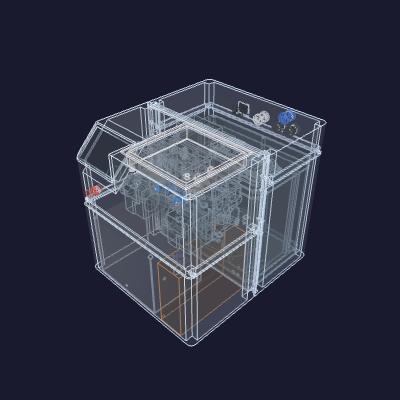
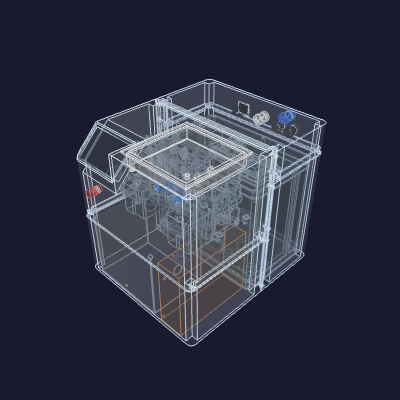
enclosure: stand both seams clear of the front pack
A valve tray in a front quadrant had seam furniture inside its own
footprint in both directions, and had to be shaped around it.

The Y seam sat at the box midpoint. Its front column's aft Z station
reached 2*socket_r ahead of the mouth's margin, so a full-height post
stood at y=161.7 on each side wall — inside the depth the trays use
(they reach y=182.0). It now sits one stance behind the cold core's
front face, where the front pack ends, putting that post's front face
at y=184.0 and the whole seam aft of every tray.

The front column's Z seam sat at z=172 with its rim at 185.1 — inside
the manifold stack, whose floor is at 164.8, so the trays straddled it
and its lip and four pods passed through their height. It drops to a
rim of 154.0, beneath the stack, so each tray lands wholly in the
front-top piece. What it drops past is the compressor and the tipped
condenser, which stand against the front wall over the seam's whole
height: the front column's lip gives up its front-wall segment for
them, as the Y lip gives up its floor segment for the cold core. Both
machines are inset one corner-rib chain off their side walls, so the
two side segments and all four pods keep full section, and neither
machine moves.

The rear-panel port bump moves ahead of the seam calculation. The Y
lip's ceiling segment runs under the top wall, so it is bounded by what
stands under the FINAL one — probed against the provisional ceiling it
read the power tray and capped the seam 6.5 mm short.
[…]

Changed region(s): [[0.21, 0.24, 0.72, 0.75]]

diff --git a/hardware/printed-parts/enclosure/enclosure/enclosure.py b/hardware/printed-parts/enclosure/enclosure/enclosure.py
@@ -8,8 +8,10 @@ interior clearance, then walled out. Features:
 
   * A flat 45° display-mounting facet (a solid surface) chamfered into the
     top-front-left corner, flush to the −X edge.
-  * A front↔back split (a Y-plane seam pushed as far back as the cold core
-    allows): the front pieces' rear walls telescope (a full-wall lip,
+  * A front↔back split (a Y-plane seam standing one stance BEHIND the cold
+    core's front face, so its machinery is aft of the whole front pack and a
+    front-quadrant tray never has to be notched around it): the front
+    pieces' rear walls telescope (a full-wall lip,
     nothing shaved) into the back pieces, and four interlocking screw
     bosses cross the seam — one per ±X side wall per level, the bottom pair
     tucked just under the front Z seam (so it pins the two bottom pieces),
@@ -25,9 +27,11 @@ interior clearance, then walled out. Features:
     different height each side of the Y seam (the seams stagger like a
     brick bond; the front pair joins, the back pair joins, then the front
     assembly telescopes into the back). The BOTTOM pieces carry the lip — a
-    3-sided band (their outer ±Y wall + both side walls, stopping short of
-    the Y-seam overlap) telescoping +Z into the top pieces — with the
-    socket pods; the TOP pieces carry the D-pins, their tabs rising to the
+    band stopping short of the Y-seam overlap, telescoping +Z into the top
+    pieces: 3-sided at the back (rear wall + both side walls), 2-sided at
+    the front, where the compressor and condenser stand against the front
+    wall over the seam's whole height and that segment is given up for them
+    — with the socket pods; the TOP pieces carry the D-pins, their tabs rising to the
     lip rim where posts of the pod's own section carry them to the
     ceiling. Four X-axis screws cross each
     seam (one per side wall per Y column: front pins at the front-wall
@@ -188,16 +192,19 @@ lip_len = plug_dia / 2.0 + socket_r              # = (plug+bore)/2 + wall = 13.1
 #     bulkhead field begins just above the lip rim (_contents
 #     UMBILICAL_Z_FLOOR is derived from it) — the seam sits in the one band
 #     between foam and ports.
-#   * Front: in the band between the floor stratum and the manifold stack.
-#     The compressor and the tipped condenser are each inset one corner-rib
-#     chain off their side wall, so the floor's whole height stands clear at
-#     both walls; above them the stack runs a few millimetres inboard of each
-#     wall — the source tray's east bank, both trays' west outlet elbows, and
-#     the pump-inlet tees hanging between them all clear the seam furniture —
-#     from its floor at z ~165 up. The seam's wall-hugging lip + boss pods
-#     occupy the gap beneath that floor.
+#   * Front: BELOW the manifold stack, not inside it. The stack's floor is at
+#     z ~165, so a seam up in that band leaves the trays straddling it — every
+#     tray then has to be shaped around a lip and four pods passing through its
+#     own height. Dropped so the rim lands one stack-floor clearance under it,
+#     the whole seam is beneath the trays and each of them sits wholly in the
+#     top piece. What it drops PAST is the compressor and the tipped condenser,
+#     which stand against the front wall over this entire height — so the front
+#     column's lip gives up its front-wall segment for them (`_z_lip`), exactly
+#     as the Y lip gives up its floor segment for the cold core. Both machines
+#     are inset one corner-rib chain off their side walls, so the two side
+#     segments and all four pods still run at full section.
 # Every printed piece's bed face fits the H2C envelope with these cuts.
-z_joint_front = 172.0
+z_joint_front = 140.9        # rim at 154.0, under the stack floor at 164.8
 # Clear of the cold core's foam cap by the rear station's reach: that station's
 # socket collar hangs socket_r below the pin axis, i.e. to z_joint_back − 3.2, so
 # the seam sits high enough that the collar lands ON the band above the foam
@@ -450,31 +457,40 @@ def _dims():
     # (bore axis at lip_len + wall + bore radius past y_joint, pod reaching
     # socket_r further) and must stop ahead of the foam. (No Z terms: the
     # provisional tuples below are final in X and Y.)
-    inner = (ix0, ix1, iy0, iy1, iz0, iz1)
-    outer = (ox0, ox1, oy0, oy1, iz0 - wall, iz1 + wall)
-    facet_back_y = _facet_back_y(outer)
-    # The seam sits at the box's middle, for four near-quarter pieces, unless
-    # something stands where one of its two parts needs to be: the mouth, plugs,
-    # pods and posts in the ±X boss-chain bands, and the lip's ceiling segment
-    # in the band under the top wall. The cold core caps neither — the bands run
-    # clear alongside it, and the lip carries no floor segment to sweep it — so
-    # the seam passes BEHIND the core's front face rather than stopping at it.
-    chain_clear, ceiling_clear = _seam_bands_clear(placed, inner)
-    chain = lip_len + wall + socket_bore_dia / 2.0 + socket_r
-    y_chain = chain_clear - 2.0 - chain
-    y_ceiling = ceiling_clear - 2.0 - lip_len
-    y_joint = max(facet_back_y + 2.0,
-                  min((iy0 + iy1) / 2.0, y_chain, y_ceiling))
     # The rear-panel port field is content too: every clamping nut/flange seats
     # on the outer wall face, so the wall must reach past the field's topmost
     # hardware edge (its bottom edge rides the lip band — _contents
-    # UMBILICAL_Z_FLOOR); the margin mirrors that floor's 2 mm stance.
+    # UMBILICAL_Z_FLOOR); the margin mirrors that floor's 2 mm stance. Settled
+    # BEFORE the seam, because the Y lip's ceiling segment runs under the top
+    # wall and so is bounded by whatever stands under the FINAL one.
     ports = _contents.back_wall_ports()
     port_top = max((h[2] + _contents.port_footprint(h)[1] / 2.0 for h in ports),
                    default=iz0)
     iz1 = max(iz1, port_top + 2.0)
     inner = (ix0, ix1, iy0, iy1, iz0, iz1)
     outer = (ox0, ox1, oy0, oy1, iz0 - wall, iz1 + wall)
+    facet_back_y = _facet_back_y(outer)
+    # The seam sits at the box's middle, for four near-quarter pieces, OR behind
+    # the front pack — whichever is further back. The pack term is what makes the
+    # front quadrants usable: the frontmost seam furniture is that column's aft
+    # Z station, whose pod reaches 2*socket_r ahead of the mouth's margin, and a
+    # tray in either front quadrant has to be notched around it wherever it lands
+    # inside the pack. Held one stance behind the cold core's front face — where
+    # the front pack ends — the whole seam stands aft of every tray, and a tray
+    # may run the box's full width and its full depth without seeing a seam.
+    #
+    # Either way it is capped by what stands where its two parts go: the mouth,
+    # plugs, pods and posts in the ±X boss-chain bands, and the lip's ceiling
+    # segment in the band under the top wall. The cold core caps neither — the
+    # bands run clear alongside it, and the lip carries no floor segment to sweep
+    # it — so the seam passes BEHIND the core's front face rather than stopping.
+    chain_clear, ceiling_clear = _seam_bands_clear(placed, inner)
+    chain = lip_len + wall + socket_bore_dia / 2.0 + socket_r
+    y_chain = chain_clear - 2.0 - chain
+    y_ceiling = ceiling_clear - 2.0 - lip_len
+    y_pack = cold.ymin + 2.0 + wall + z_lip_y_margin + 2.0 * socket_r
+    y_joint = max(facet_back_y + 2.0,
+                  min(max((iy0 + iy1) / 2.0, y_pack), y_chain, y_ceiling))
     # The Y-seam corner, probed at each depth something stands there: the front
     # half's column at the socket's full section (which also fixes where a level
     # may sit, since a level needs a socket body), and the back half's column —
@@ -1017,12 +1033,22 @@ def _z_stations(inner, y_joint):
     return out
 
 
-def _z_lip(inner, y_joint, zj):
+def _z_lip(inner, y_joint, zj, y_side=None):
     """The bottom pieces' seam lip: a full-wall band whose outer faces are
     flush with the body's inner walls, running one wall down into the body
     (the fusion shoulder) and up over the overlap to the rim. The segment
     crossing the Y-seam overlap is dropped, so each piece carries a 3-sided
     lip and the two telescopes never stack on one wall surface.
+
+    The FRONT column drops its front-wall segment too, for the same reason the
+    Y lip carries no floor segment: the compressor and the tipped condenser
+    stand against the front wall over this seam's whole height, and a segment
+    there would hold the seam above them — back up inside the manifold stack,
+    where every tray would have to be shaped around it. Without it the seam is
+    free to sit beneath the stack, the two machines pass in front of the two
+    side segments, and the front wall butts at the seam and is registered by
+    that column's four pods. Both machines are inset one corner-rib chain off
+    their side walls, so those segments and pods keep their full section.
 
     Unlike the Y-seam lip, this band is horizontal and telescopes +Z straight
     THROUGH the box's standing-vertical arrises, so its corners are relieved on
@@ -1038,6 +1064,8 @@ def _z_lip(inner, y_joint, zj):
     gap = _ybox(ix0 - 1.0, ix1 + 1.0,
                 y_joint - wall - z_lip_y_margin, y_joint + lip_len + z_lip_y_margin,
                 z0 - 1.0, z1 + 1.0)
+    if y_side == "front":
+        gap = gap.fuse(_ybox(ix0 - 1.0, ix1 + 1.0, iy0 - 1.0, iy0 + wall, z0 - 1.0, z1 + 1.0))
     return ring.cut(gap)
 
 
@@ -1356,7 +1384,7 @@ def build_piece(box, y_side, z_side, halves_cache=None):
                     oy0 - 1.0 if y_side == "front" else y_joint,
                     y_joint if y_side == "front" else oy1 + 1.0,
                     oz0 - 1.0, oz1 + 1.0)
-        piece = piece.fuse(_z_lip(inner, y_joint, zj).intersect(col))
+        piece = piece.fuse(_z_lip(inner, y_joint, zj, y_side).intersect(col))
         for x_in, x_ext, sx, ys, c in stations:
             piece = piece.fuse(_z_pod(x_in, x_ext, sx, ys, c, y_joint, inner, zj))
         for x_in, x_ext, sx, ys, _c in stations:

diff --git a/hardware/printed-parts/enclosure/enclosure/README.md b/hardware/printed-parts/enclosure/enclosure/README.md
@@ -3,14 +3,19 @@
 A PETG box, 3 mm walls, sized live to the bounding box of the contents placed
 by [`../enclosure-assembly/_contents.py`](/hardware/printed-parts/enclosure/enclosure-assembly/_contents.py),
 **split into four printable pieces** — front/back × bottom/top, every piece
-inside the H2C bed — that telescope and screw together. The Y seam sits as
-close to the box's midpoint as the cold core allows, and each column takes its
-bottom↔top seam at its own height (the seams stagger like a brick bond): the
-back-bottom piece houses the cold core, the back-top covers the band above it
-— the electronics shelf on the foam-cap top and every panel port (the whole
-external-connection inventory penetrates its rear wall, above the cold core);
-the front column splits at its waist over the condenser — refrigeration below,
-the valve tray + funnel + display above.
+inside the H2C bed — that telescope and screw together. **Both seams stand
+clear of the front pack**, so a valve tray in either front quadrant may run the
+box's full width and depth without being notched around seam furniture: the Y
+seam sits one stance behind the cold core's front face (behind the box midpoint,
+not at it), and the front column's bottom↔top seam sits *beneath* the manifold
+stack rather than inside it, so each tray lands wholly in the front-top piece.
+Each column takes its bottom↔top seam at its own height (the seams stagger like
+a brick bond): the back-bottom piece houses the cold core, the back-top covers
+the band above it — the electronics shelf on the foam-cap top and every panel
+port (the whole external-connection inventory penetrates its rear wall, above
+the cold core); the front column splits at the top of the refrigeration
+stratum — compressor and condenser below, the valve trays + funnel + display
+above.
 
 `enclosure.py` exports the four printable pieces (`enclosure-front-bottom`,
 `enclosure-front-top`, `enclosure-back-bottom`, `enclosure-back-top`) plus
